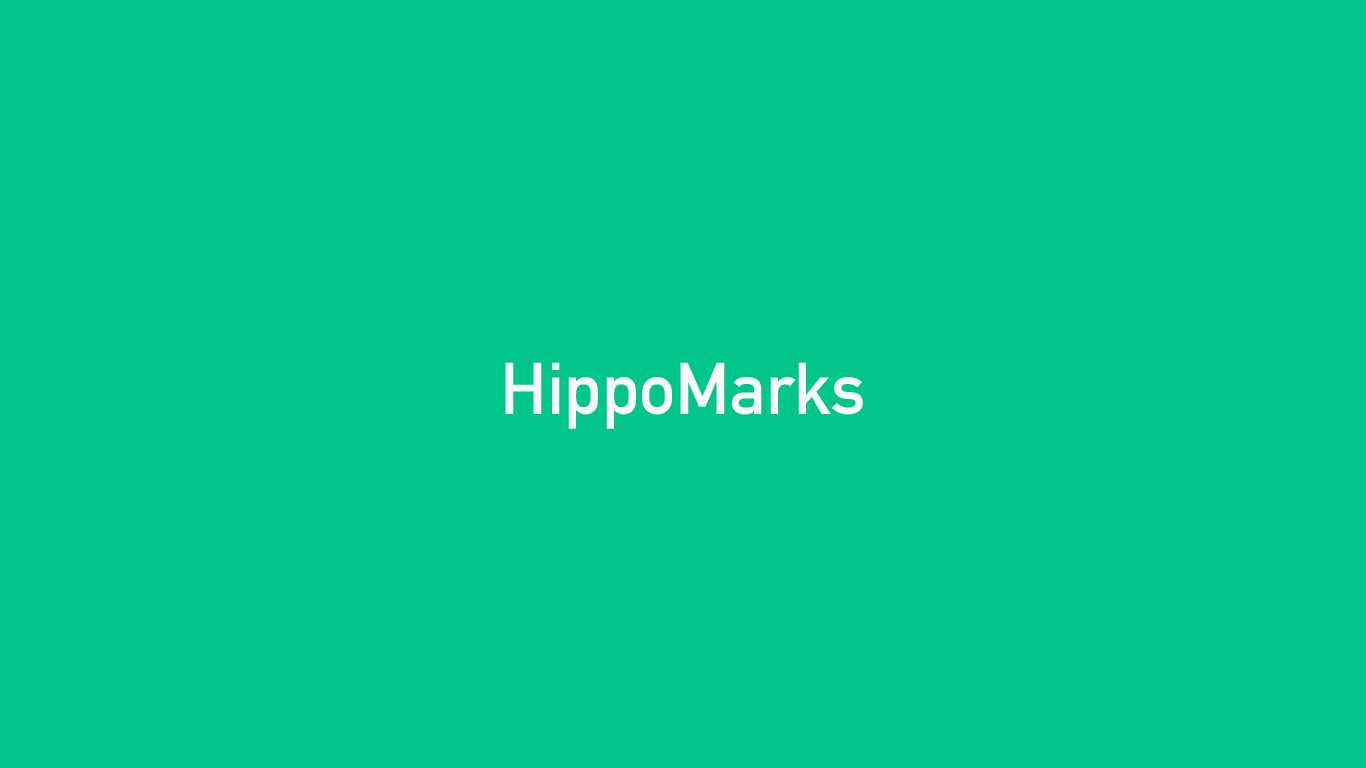
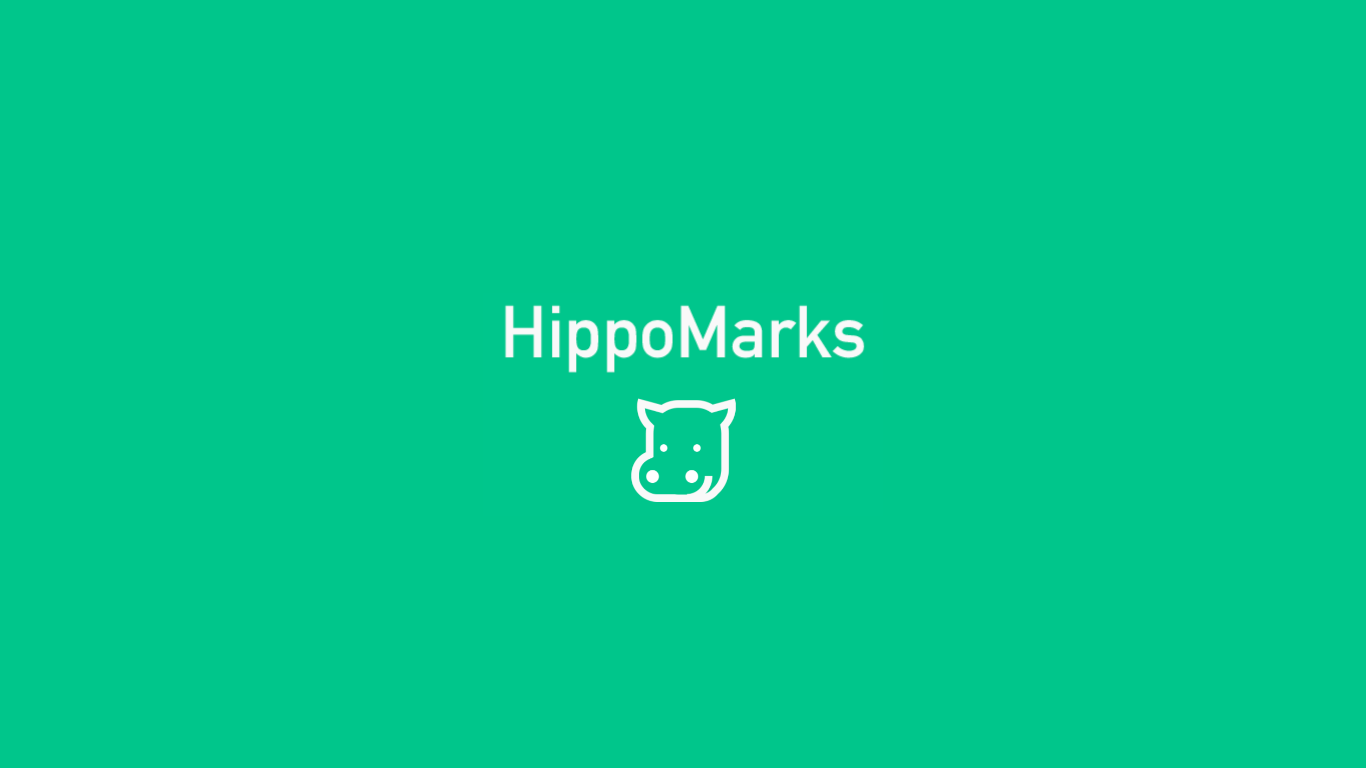
Change: トップだけでいいはずなので。

Changed region(s): [[0.369, 0.375, 0.6457, 0.6562]]

diff --git a/app/assets/stylesheets/welcome.scss b/app/assets/stylesheets/welcome.scss
@@ -3,7 +3,7 @@ $mainColor: #01c68b;
 .eyecatch {
   height: calc(100vh - 56px);
   background-image: image-url("og.png");
-  background-position: center -230px;
+  background-position: center -174px;
   background-repeat: no-repeat;
   background-color: $mainColor;
   position: relative;

diff --git a/app/helpers/application_helper.rb b/app/helpers/application_helper.rb
@@ -1,2 +1,36 @@
 module ApplicationHelper
+
+  def default_meta_tags
+    {
+      site: 'HippoMarks',
+      title: 'Your bookmark bar anywhere',
+      reverse: true,
+      separator: '|',
+      description: 'A bookmark bar that you can access from anywhere to change your browser.There is no need to repeat export and import anymore.',
+      keywords: 'hippomarks,bookmarks,hippohack',
+      canonical: request.original_url,
+      noindex: !Rails.env.production?,
+      icon: [
+        { href: image_url('favicon.png') },
+        { href: image_url('favicon.png'), rel: 'apple-touch-icon', sizes: '180x180', type: 'image/jpg' },
+      ],
+      og: {
+        site_name: 'HippoMarks',
+        title: 'Your bookmark bar anywhere',
+        description: 'A bookmark bar that you can access from anywhere to change your browser.There is no need to repeat export and import anymore.', 
+        type: 'website',
+        url: request.original_url,
+        image: image_url('og.png'),
+        locale: 'ja_JP',
+      },
+      twitter: {
+        card: 'summary_large_image',
+        site: '@hippohack',
+      },
+      fb: {
+        app_id: ''
+      }
+    }
+  end
+  
 end

diff --git a/app/helpers/home_helper.rb b/app/helpers/home_helper.rb
@@ -1,2 +1,5 @@
 module HomeHelper
+  def is_welcome
+    params[:controller] == 'home' && params[:action] == 'welcome'    	
+  end
 end
